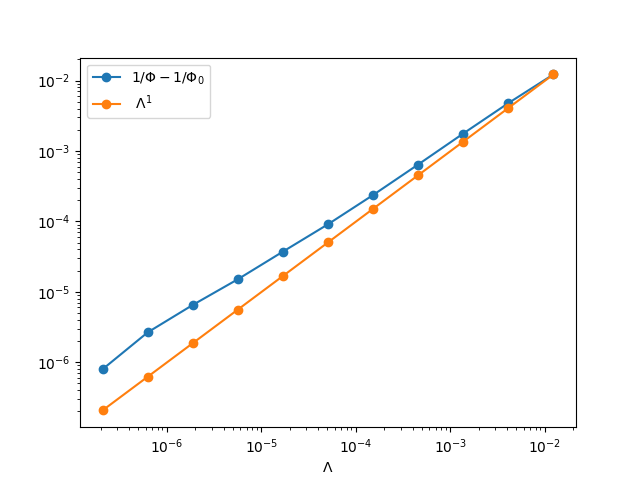
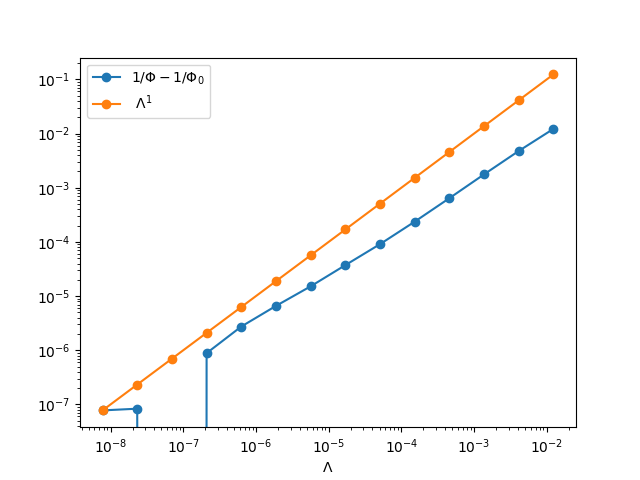
update

diff --git a/Ex1_square_top_snowflake/main_flux.py b/Ex1_square_top_snowflake/main_flux.py
@@ -29,7 +29,7 @@ u = TrialFunction(V)
 v = TestFunction(V)
 
 # get flux Phi0 at lambda = 0
-Lambda=10**(-8)
+Lambda=10**(-10)
 a = Constant(D)*dot(grad(u), grad(v))*dx++Constant(D)/Constant(Lambda)*u*v*ds(4)
 L = Constant(0)*v*dx
 # list of boundary  ids that corresponds to the exterior boundary of the domain
@@ -92,7 +92,7 @@ PETSc.Sys.Print(f"Result for 0<Lambda<1000 saved to results/Phi_Lam_{nn}.csv ")
 # Region 1: Lambda <l 
 Phi=[]
 cc=[]
-LL = np.array([3**(-i) for i in range(nn,15)])
+LL = np.array([3**(-i) for i in range(nn,18)])
 for Lambda in LL:
   a = Constant(D)*dot(grad(u), grad(v))*dx+Constant(D)/Constant(Lambda)*u*v*ds(4)
   L = Constant(0)*v*dx
@@ -121,7 +121,7 @@ for i in range(len(Phi)):
 #c=exp(res.intercept)
 alpha=1
 plt.loglog(LL, phi_2,marker='o')
-plt.loglog(LL,(LL)**alpha/(LL[0]**alpha)*(phi_2[0]),marker='o')
+plt.loglog(LL,(LL)**alpha/(LL[-1]**alpha)*(phi_2[-1]),marker='o')
 plt.legend(['$1/\Phi-1/\Phi_0$', '$~\Lambda^{{%s}}$' % (alpha)])
 plt.xlabel('$\Lambda$')
 plt.savefig(f"figures/Phi_Lam_{nn}_R1.png")
